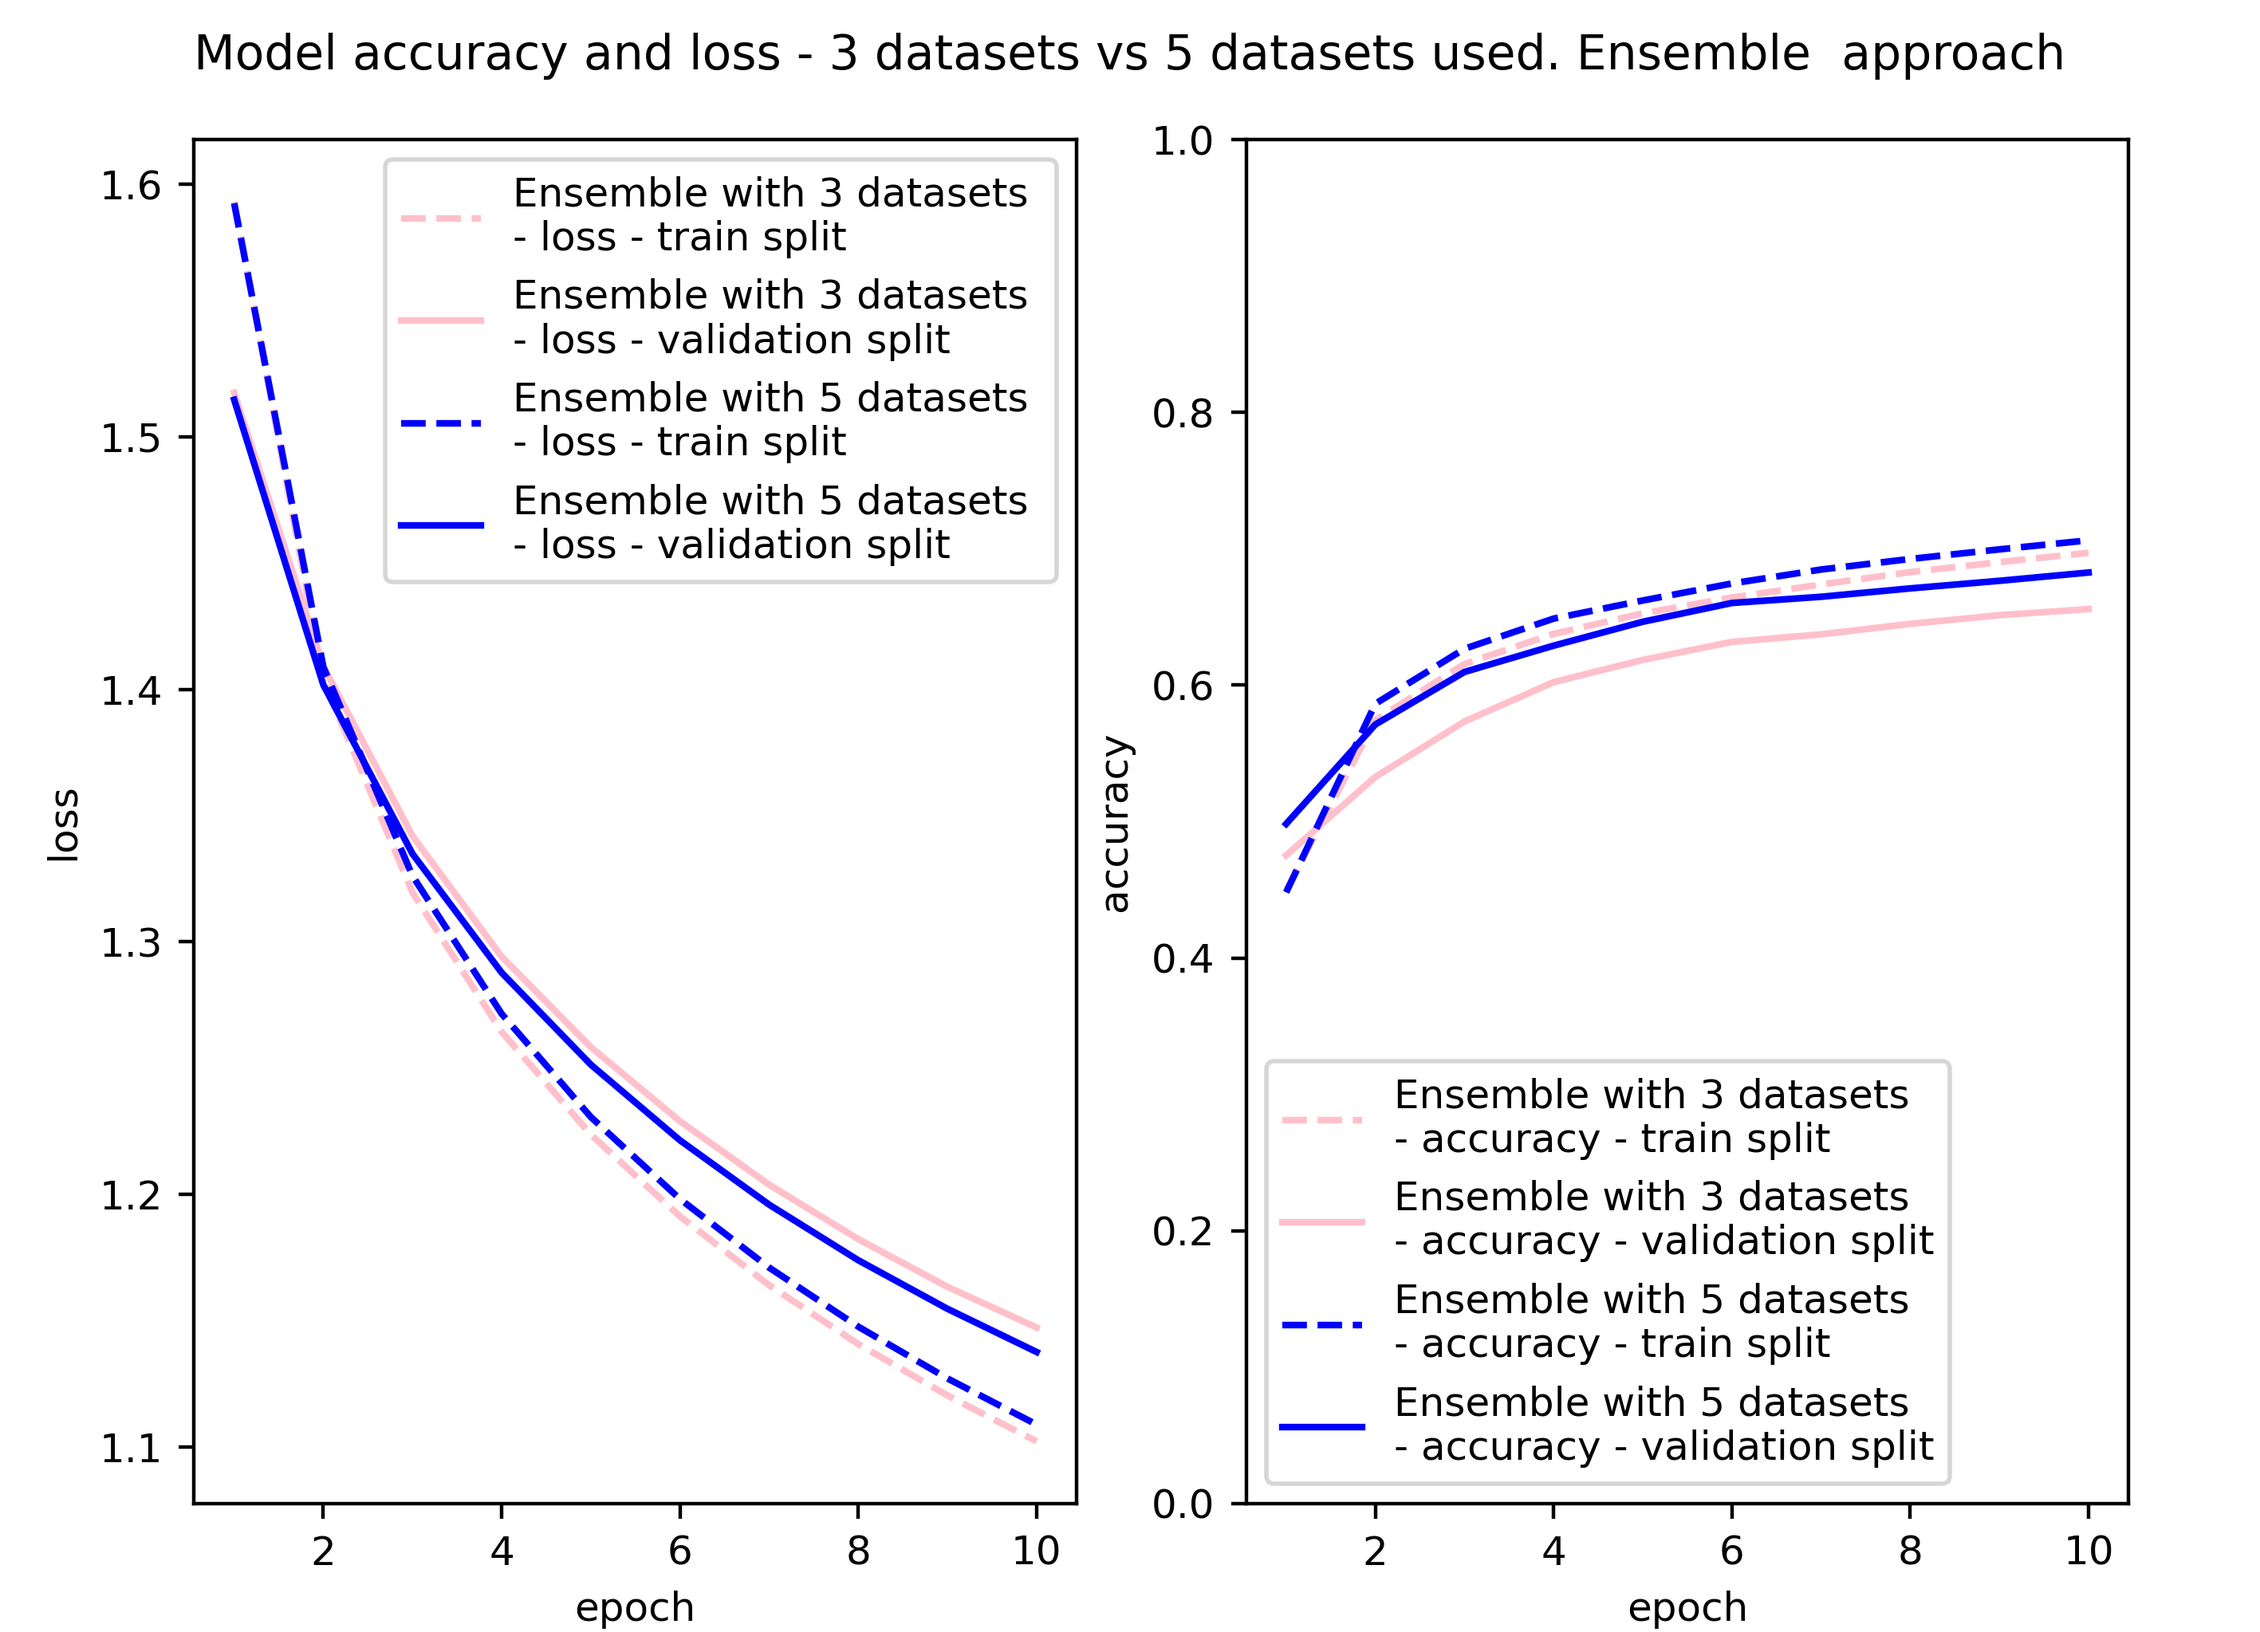
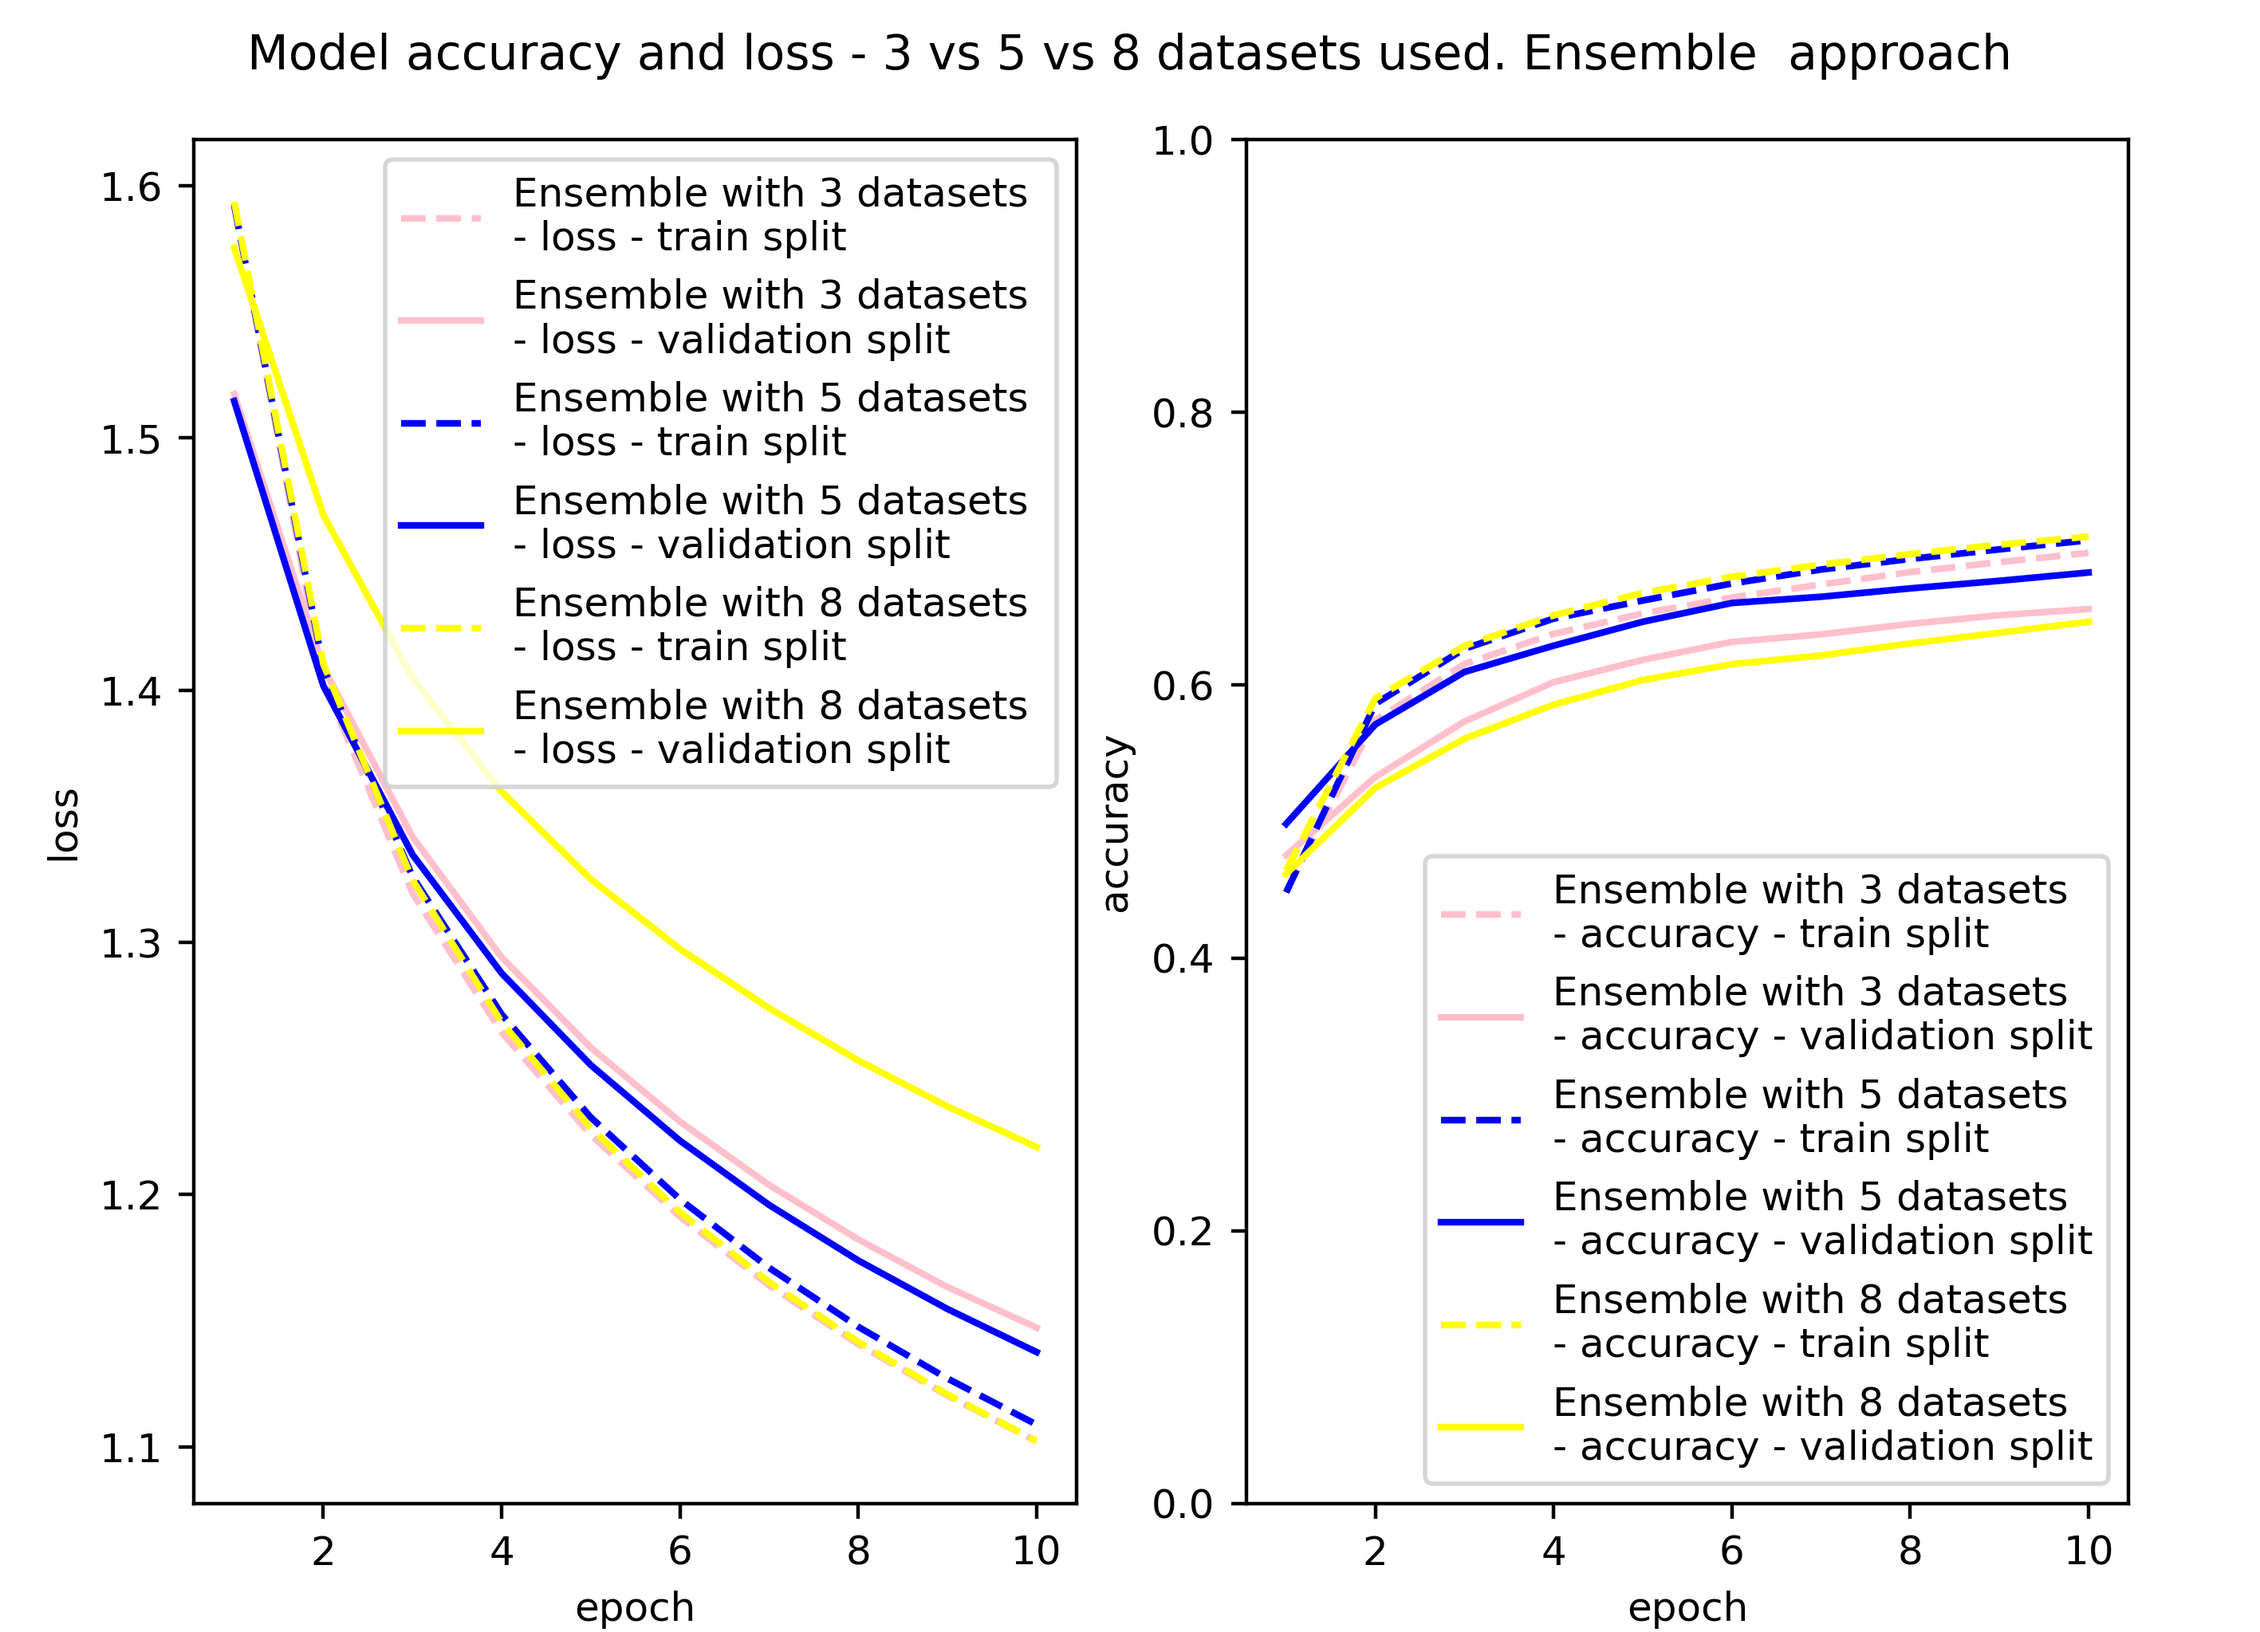
put 3, 5, and 8 datasets on one plot

diff --git a/src/results/ensemble_dba_3_vs_5/get_metrics_per_epoch.py b/src/results/ensemble_dba_3_vs_5/get_metrics_per_epoch.py
@@ -5,8 +5,8 @@ from mlflow.entities import Run
 from results.utils import Results
 
 
-class BaselineVsEnsembleResults(Results):
-    approach_name = "3 datasets vs 5 datasets used. Ensemble "
+class NumberOfDatasets(Results):
+    approach_name = "3 vs 5 vs 8 datasets used. Ensemble "
     results_root_path = os.path.dirname(__file__)
     first_result_key_name_loss = "3_ensemble_loss"
     first_result_key_name_val_loss = "3_ensemble_val_loss"
@@ -16,6 +16,25 @@ class BaselineVsEnsembleResults(Results):
     second_result_key_name_val_loss = "5_ensemble_val_loss"
     second_result_key_name_acc = "5_ensemble_accuracy"
     second_result_key_name_val_acc = "5_ensemble_val_accuracy"
+    third_result_key_name_loss = "8_ensemble_loss"
+    third_result_key_name_val_loss = "8_ensemble_val_loss"
+    third_result_key_name_acc = "8_ensemble_accuracy"
+    third_result_key_name_val_acc = "8_ensemble_val_accuracy"
+
+    def __init__(
+        self,
+        first_experiment_id: str,
+        second_experiment_id: str,
+        third_experiment_id: str,
+        assert_: bool = False,
+    ):
+        super().__init__(
+            first_experiment_id=first_experiment_id,
+            second_experiment_id=second_experiment_id,
+            assert_=assert_,
+        )
+        self.third_experiment_id = third_experiment_id
+        self.third_experiment_runs: Dict[str, Run] = self._get_third_experiment_runs()
 
     def _get_first_experiment_runs(self) -> Dict[str, Run]:
         hist = self._get_history_per_experiment(
@@ -29,6 +48,43 @@ class BaselineVsEnsembleResults(Results):
         )
         return hist
 
+    def _get_third_experiment_runs(self):
+        hist = self._get_history_per_experiment(
+            self.third_experiment_id, add_prefix="8_"
+        )
+        return hist
+
+    def _get_history_summarized_per_epoch_comparison(self):
+        history_summarized_1 = self._get_history_summarized_per_epoch(
+            experiment_run=self.first_experiment_runs,
+            metrics_names=[
+                self.first_result_key_name_acc,
+                self.first_result_key_name_val_acc,
+                self.first_result_key_name_loss,
+                self.first_result_key_name_val_loss,
+            ],
+        )
+
+        history_summarized_2 = self._get_history_summarized_per_epoch(
+            experiment_run=self.second_experiment_runs,
+            metrics_names=[
+                self.second_result_key_name_acc,
+                self.second_result_key_name_val_acc,
+                self.second_result_key_name_loss,
+                self.second_result_key_name_val_loss,
+            ],
+        )
+        history_summarized_3 = self._get_history_summarized_per_epoch(
+            experiment_run=self.third_experiment_runs,
+            metrics_names=[
+                self.third_result_key_name_acc,
+                self.third_result_key_name_val_acc,
+                self.third_result_key_name_loss,
+                self.third_result_key_name_val_loss,
+            ],
+        )
+        return {**history_summarized_1, **history_summarized_2, **history_summarized_3}
+
     def _prepare_legend(self, text: str):
         mapping = {
             self.first_result_key_name_loss: "Ensemble with 3 datasets \n- loss - train split",
@@ -39,20 +95,29 @@ class BaselineVsEnsembleResults(Results):
             self.second_result_key_name_val_loss: "Ensemble with 5 datasets \n- loss - validation split",
             self.second_result_key_name_acc: "Ensemble with 5 datasets \n- accuracy - train split",
             self.second_result_key_name_val_acc: "Ensemble with 5 datasets \n- accuracy - validation split",
+            self.third_result_key_name_loss: "Ensemble with 8 datasets \n- loss - train split",
+            self.third_result_key_name_val_loss: "Ensemble with 8 datasets \n- loss - validation split",
+            self.third_result_key_name_acc: "Ensemble with 8 datasets \n- accuracy - train split",
+            self.third_result_key_name_val_acc: "Ensemble with 8 datasets \n- accuracy - validation split",
         }
         return mapping[text]
 
     @staticmethod
     def _get_plot_kwargs(metric_name) -> dict:
         return {
-            "color": "pink" if "3" in metric_name.lower() else "blue",
+            "color": "pink"
+            if "3" in metric_name.lower()
+            else "blue"
+            if "5" in metric_name.lower()
+            else "yellow",
             "linestyle": "--" if "train" in metric_name.lower() else "-",
         }
 
 
-results = BaselineVsEnsembleResults(
+results = NumberOfDatasets(
     first_experiment_id="879346711569312185",
     second_experiment_id="554900821027531839",
+    third_experiment_id="528548208530565493",
     assert_=False,
 )
 results.get_mean_loss_acc_per_epoch()

diff --git a/src/results/utils.py b/src/results/utils.py
@@ -170,7 +170,7 @@ class Results(metaclass=ABCMeta):
         plt.close(figure)
 
     def _get_mean_loss_ax_acc_per_epoch(self, metric: Literal["loss", "acc"], ax: Axis):
-        history_summarized = self._get_history_summarized_per_epoch()
+        history_summarized = self._get_history_summarized_per_epoch_comparison()
         history_summarized = {
             key: history_summarized[key]
             for key in history_summarized
@@ -194,33 +194,36 @@ class Results(metaclass=ABCMeta):
         ax.legend()
         return ax
 
-    def _get_history_summarized_per_epoch(self):
-        metrics_names_1 = [
-            self.first_result_key_name_acc,
-            self.first_result_key_name_val_acc,
-            self.first_result_key_name_loss,
-            self.first_result_key_name_val_loss,
-        ]
-        metrics_names_2 = [
-            self.second_result_key_name_acc,
-            self.second_result_key_name_val_acc,
-            self.second_result_key_name_loss,
-            self.second_result_key_name_val_loss,
-        ]
+    def _get_history_summarized_per_epoch_comparison(self):
+        history_summarized_1 = self._get_history_summarized_per_epoch(
+            experiment_run=self.first_experiment_runs,
+            metrics_names=[
+                self.first_result_key_name_acc,
+                self.first_result_key_name_val_acc,
+                self.first_result_key_name_loss,
+                self.first_result_key_name_val_loss,
+            ],
+        )
+        history_summarized_2 = self._get_history_summarized_per_epoch(
+            experiment_run=self.second_experiment_runs,
+            metrics_names=[
+                self.second_result_key_name_acc,
+                self.second_result_key_name_val_acc,
+                self.second_result_key_name_loss,
+                self.second_result_key_name_val_loss,
+            ],
+        )
+        return {**history_summarized_1, **history_summarized_2}
+
+    def _get_history_summarized_per_epoch(self, experiment_run, metrics_names):
         metrics_per_epoch = {
-            self._prepare_legend(metric): []
-            for metric in metrics_names_1 + metrics_names_2
+            self._prepare_legend(metric): [] for metric in metrics_names
         }
         for dataset in self.datasets:
-            history_1 = self.first_experiment_runs[dataset].data.metrics["history"]
-            history_2 = self.second_experiment_runs[dataset].data.metrics["history"]
-            for metric_name in metrics_names_1:
+            history_1 = experiment_run[dataset].data.metrics["history"]
+            for metric_name in metrics_names:
                 metrics_per_epoch[self._prepare_legend(metric_name)].append(
                     history_1[metric_name]
-                )
-            for metric_name in metrics_names_2:
-                metrics_per_epoch[self._prepare_legend(metric_name)].append(
-                    history_2[metric_name]
                 )
         history_summarized = {
             metric: np.array(metrics_per_epoch[metric]).mean(0)

diff --git a/src/results/ensemble_dba_5_vs_8/get_metrics_per_epoch.py b/src/results/ensemble_dba_5_vs_8/get_metrics_per_epoch.py
@@ -5,7 +5,7 @@ from mlflow.entities import Run
 from results.utils import Results
 
 
-class BaselineVsEnsembleResults(Results):
+class NumberOfDatasets5_8(Results):
     approach_name = "8 datasets vs 5 datasets used. Ensemble "
     results_root_path = os.path.dirname(__file__)
     first_result_key_name_loss = "8_ensemble_loss"
@@ -50,10 +50,9 @@ class BaselineVsEnsembleResults(Results):
         }
 
 
-results = BaselineVsEnsembleResults(
+results = NumberOfDatasets5_8(
     first_experiment_id="528548208530565493",
     second_experiment_id="554900821027531839",
     assert_=False,
 )
-results.get_mean_loss_acc_per_epoch()
 results.win_tie_loss_diagram()
